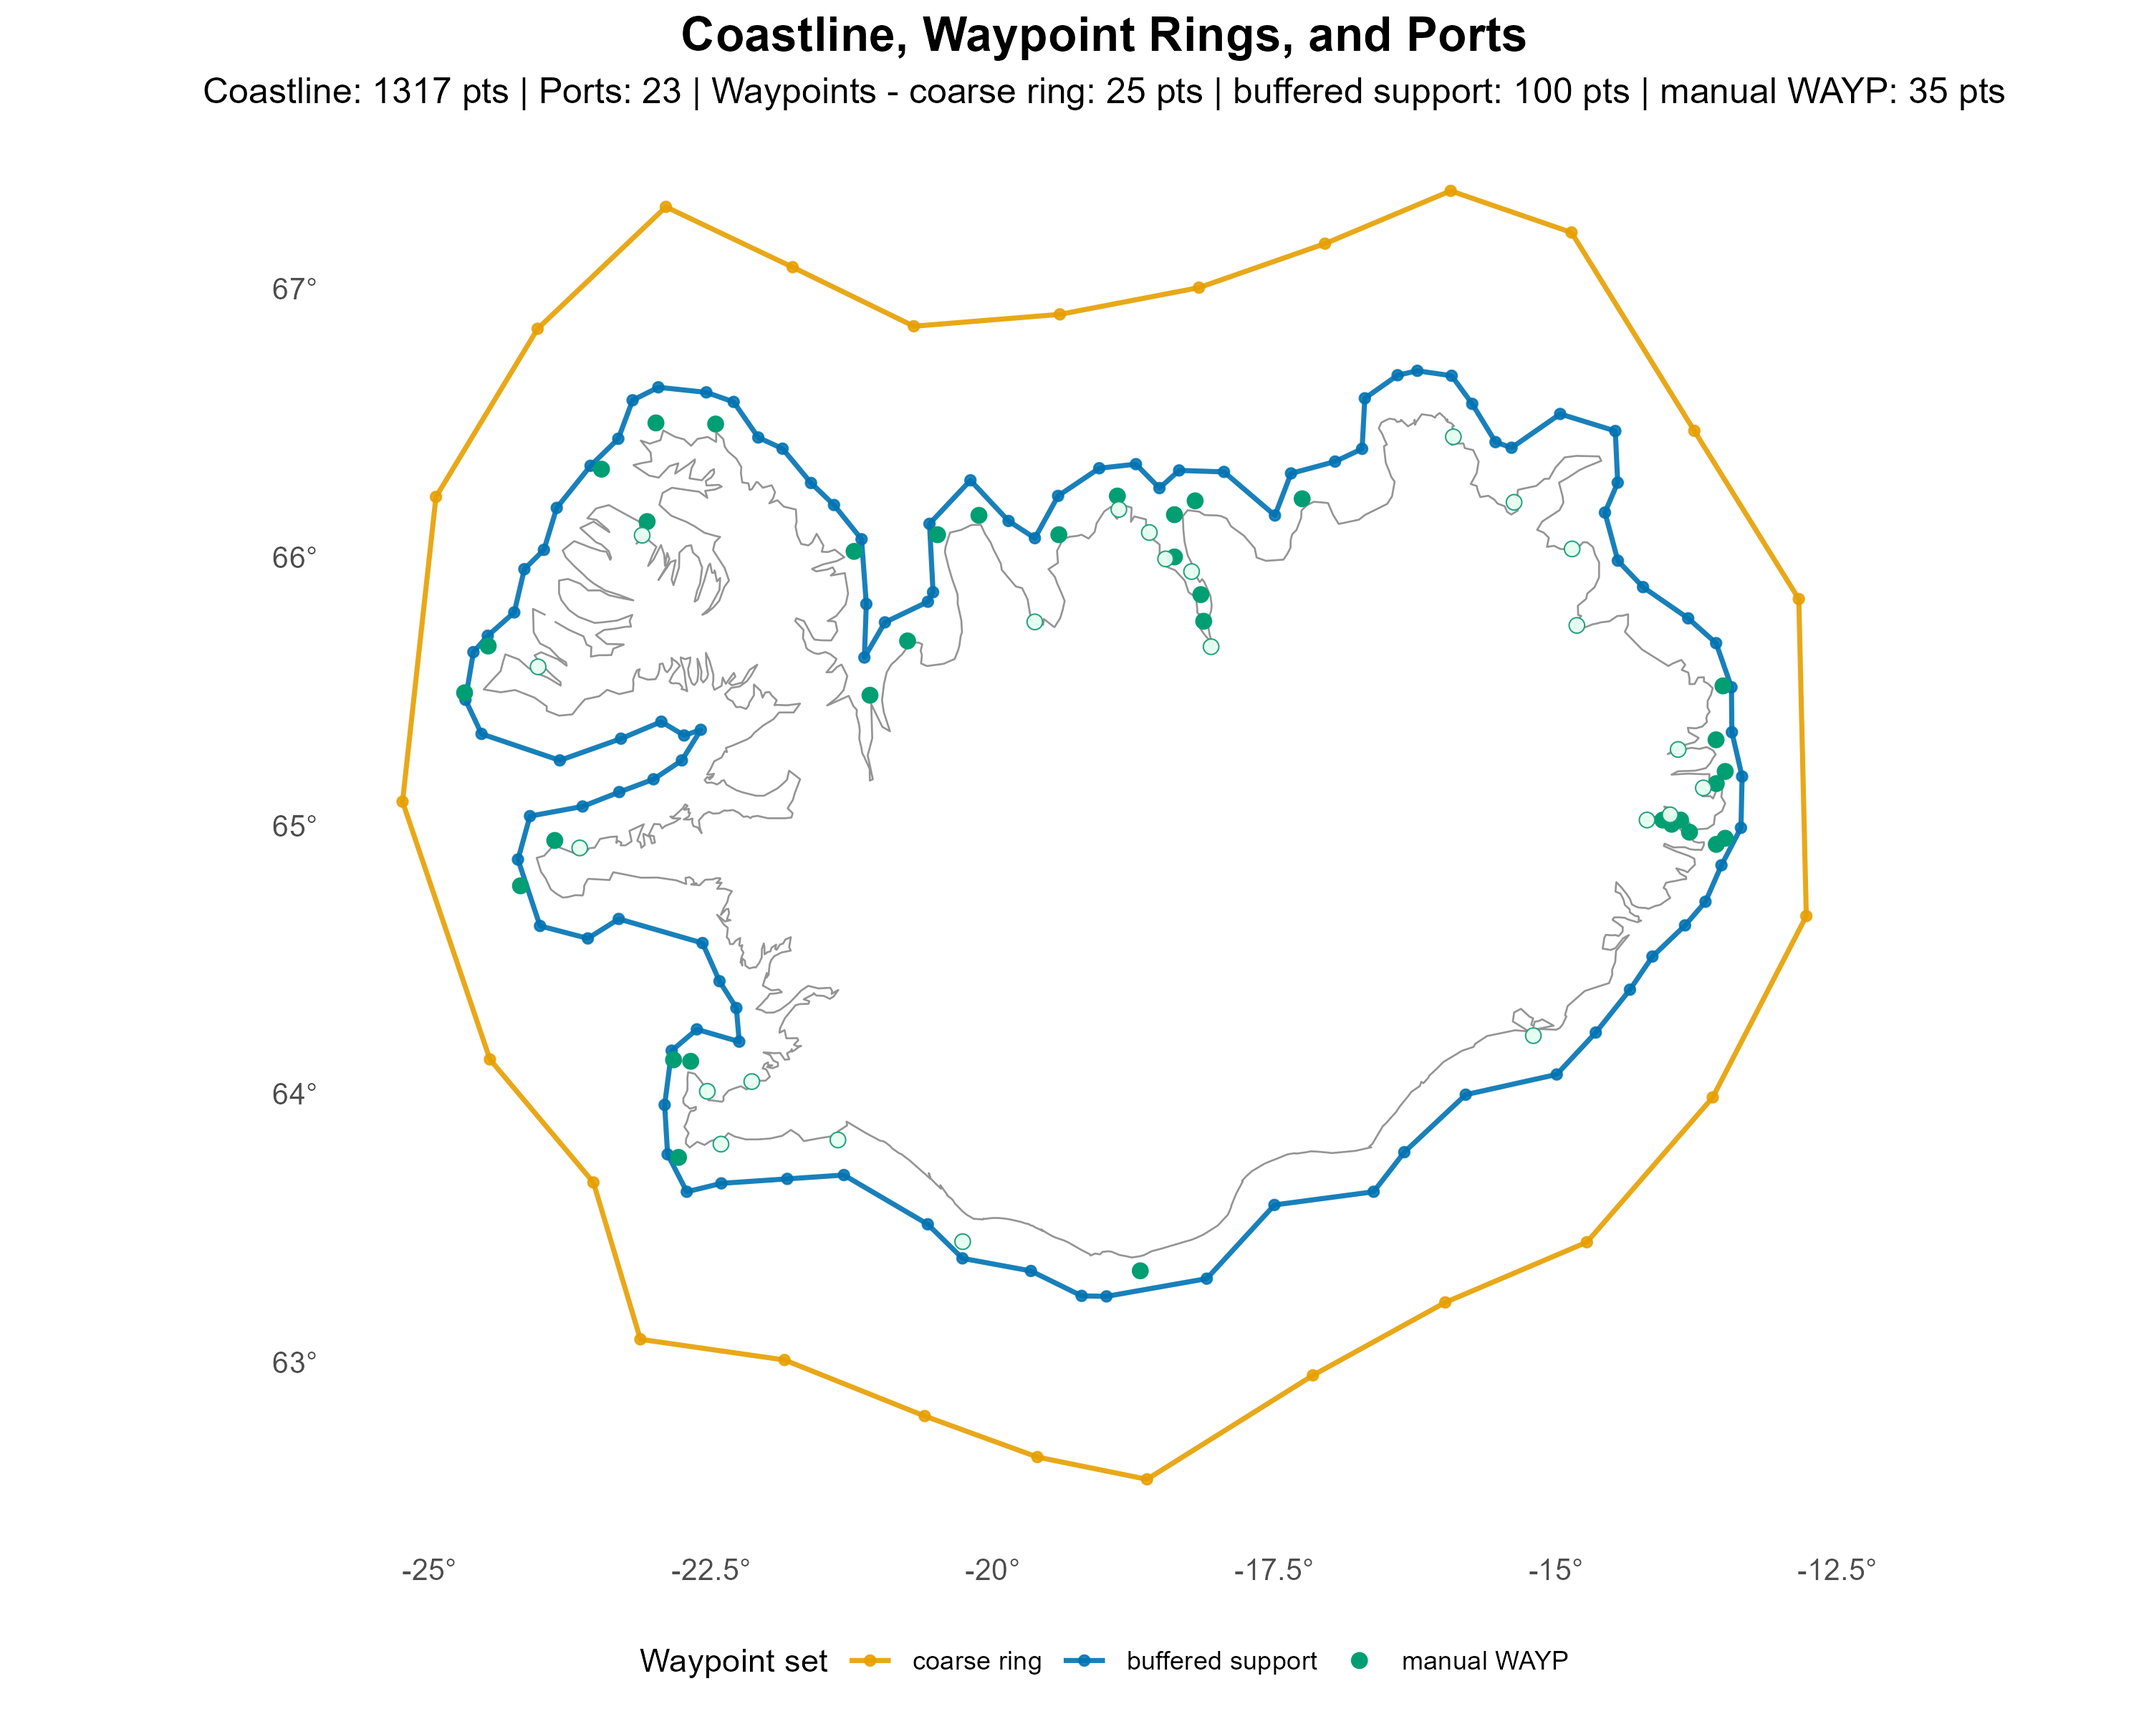
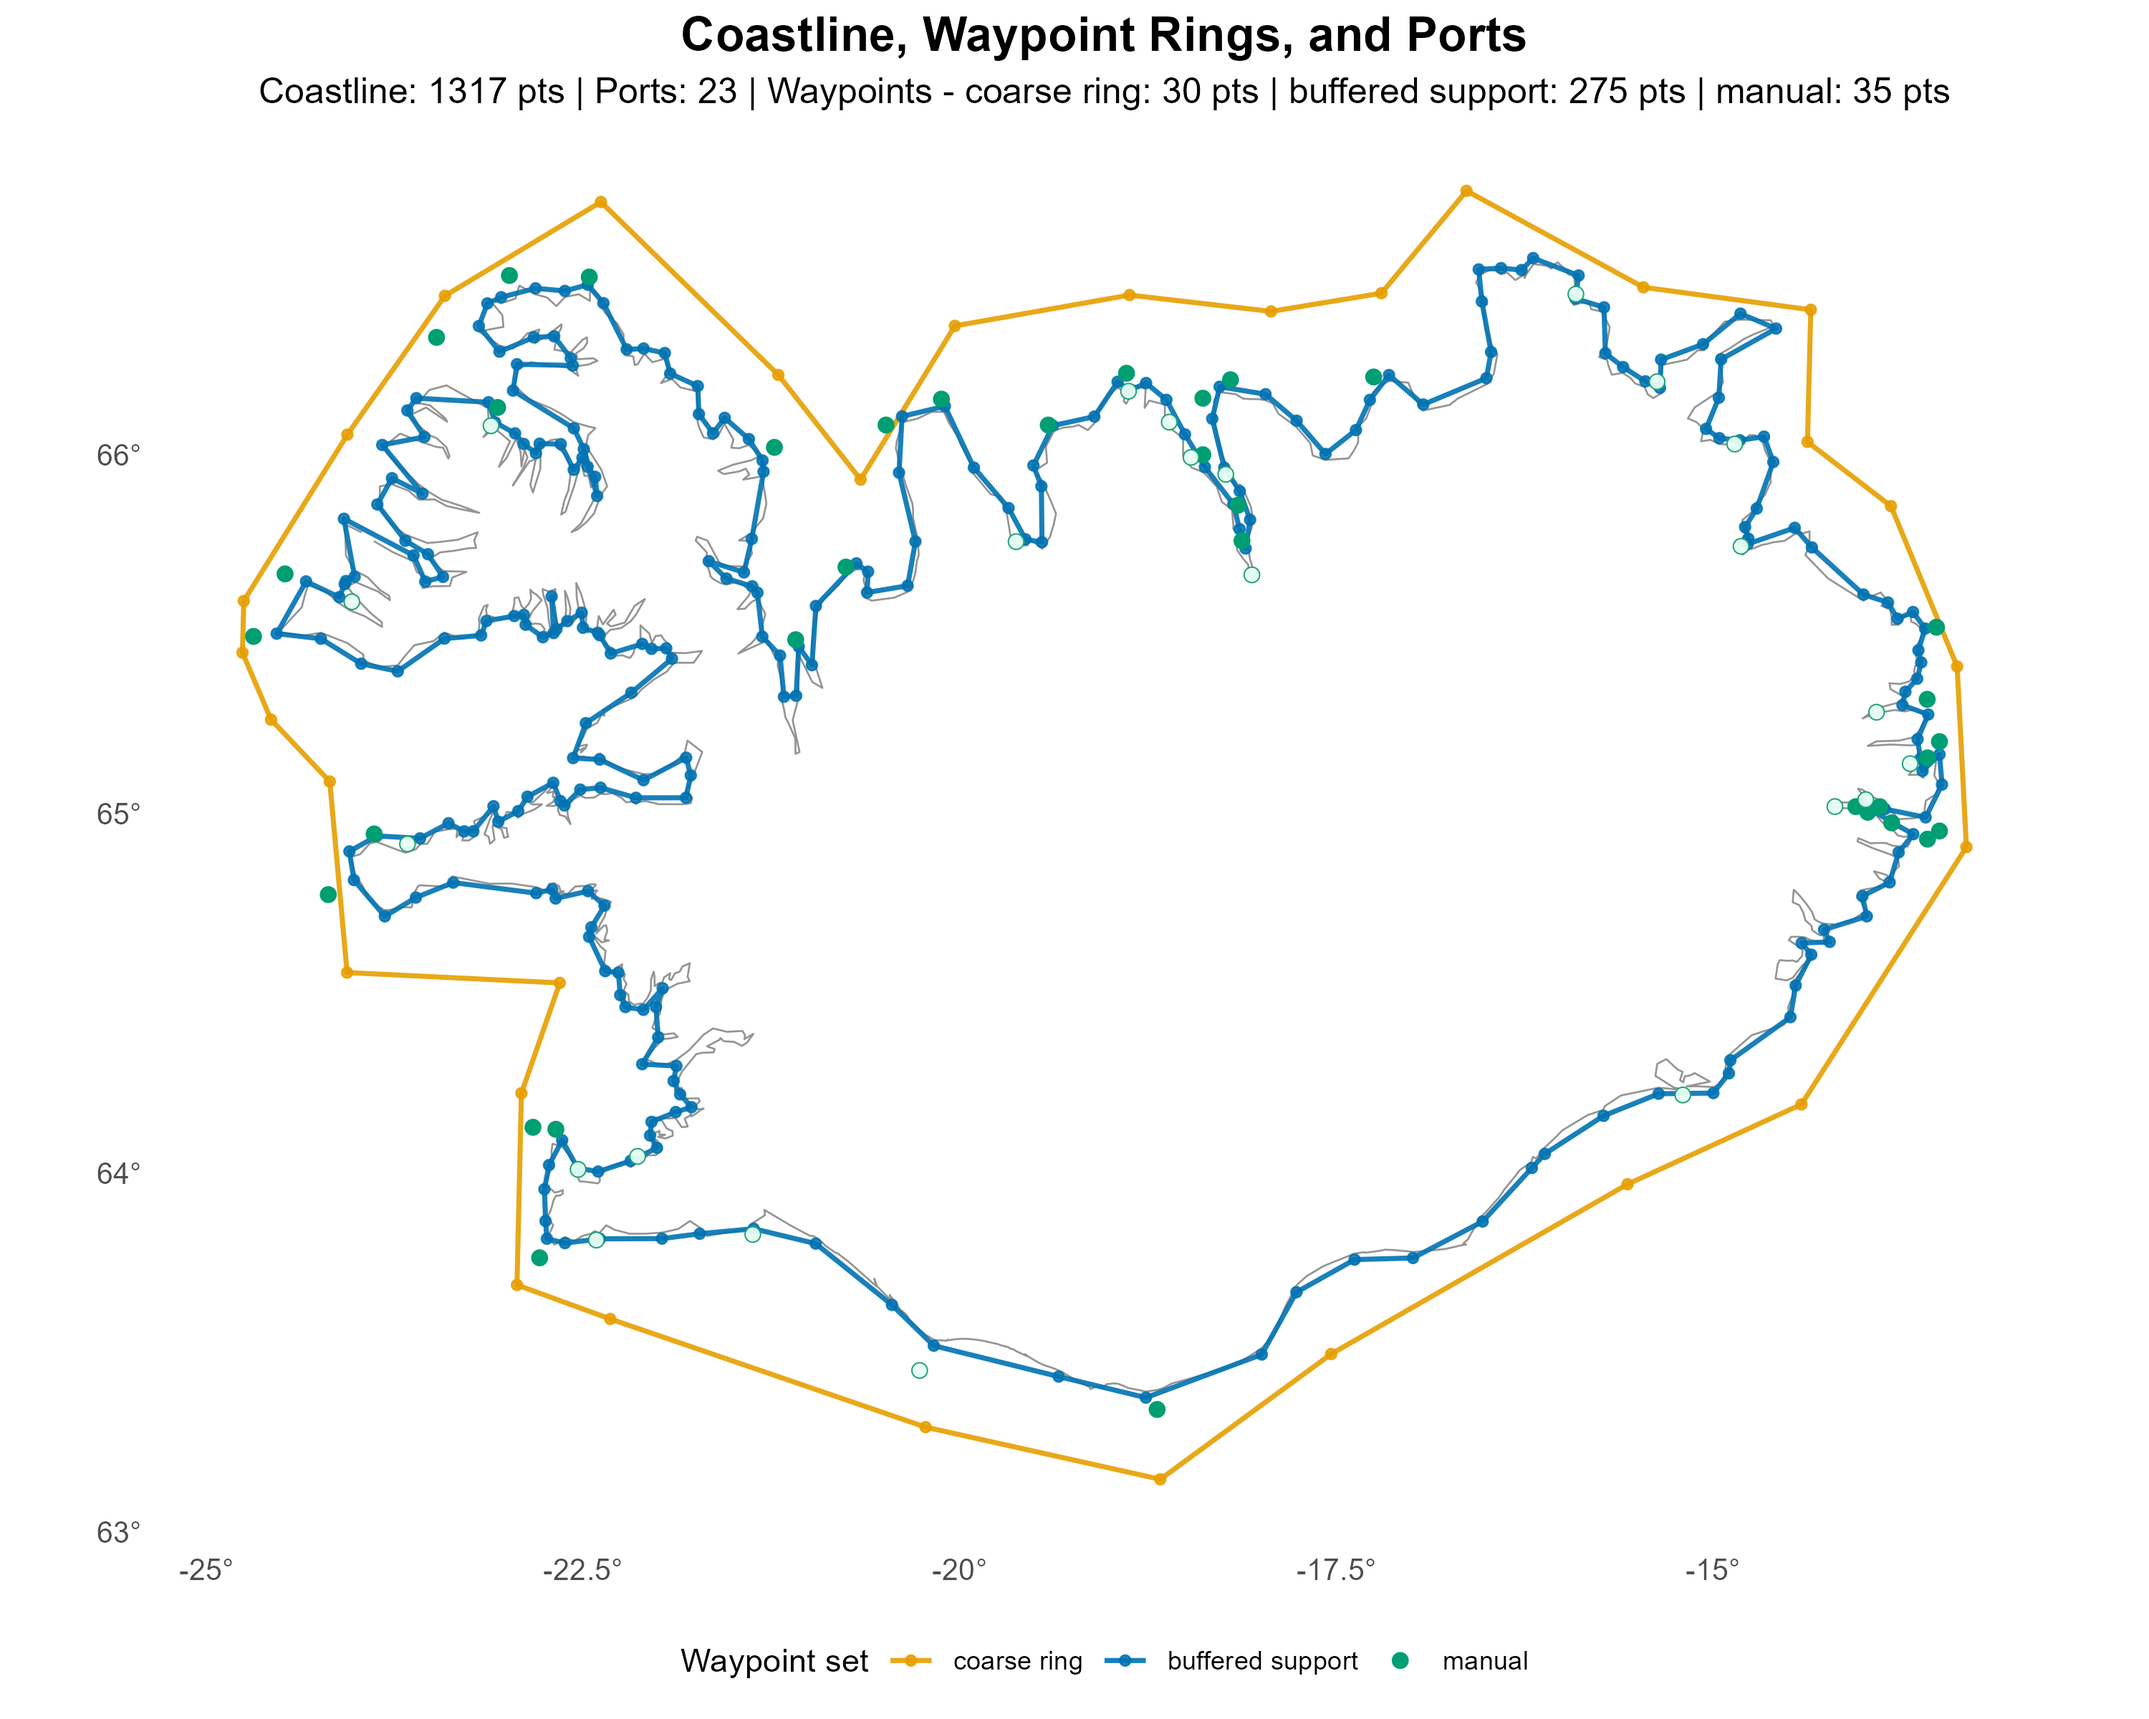
Add light cyclic smoothing to buffered coastline waypoint support.
`make -C src prepare-routing-data` now takes ~30min with 340 waypoints, used 133

diff --git a/src/tools/country_bootstrap_main.c b/src/tools/country_bootstrap_main.c
@@ -425,6 +425,45 @@ static int extract_ring_points_from_polygon(GEOSContextHandle_t ctx, const GEOSG
     return 1;
 }
 
+static GEOSGeometry *repair_polygon_geometry(GEOSContextHandle_t ctx,
+                                             GEOSGeometry *geom,
+                                             const char *label) {
+    if (!geom) return NULL;
+    if (GEOSisValid_r(ctx, geom)) return geom;
+
+    GEOSGeometry *repaired = GEOSBuffer_r(ctx, geom, 0.0, 8);
+    if (!repaired || !GEOSisValid_r(ctx, repaired)) {
+        if (repaired) GEOSGeom_destroy_r(ctx, repaired);
+        GEOSGeom_destroy_r(ctx, geom);
+        return NULL;
+    }
+
+    printf("  WARN %s invalid after geometry operation -> repaired with buffer(0)\n", label);
+    GEOSGeom_destroy_r(ctx, geom);
+    return repaired;
+}
+
+static int validate_offset_points_outside_coastline(GEOSContextHandle_t ctx,
+                                                    const GEOSGeometry *coastline_polygon,
+                                                    const GeoPointVec *ring) {
+    if (!ring || ring->n <= 0) return 0;
+    for (int i = 0; i < ring->n; i++) {
+        GEOSCoordSequence *seq = GEOSCoordSeq_create_r(ctx, 1, 2);
+        GEOSGeometry *pt = NULL;
+        if (!seq) return 0;
+        GEOSCoordSeq_setX_r(ctx, seq, 0, ring->points[i].lon);
+        GEOSCoordSeq_setY_r(ctx, seq, 0, ring->points[i].lat);
+        pt = GEOSGeom_createPoint_r(ctx, seq);
+        if (!pt) return 0;
+        if (!GEOSDisjoint_r(ctx, pt, coastline_polygon)) {
+            GEOSGeom_destroy_r(ctx, pt);
+            return 0;
+        }
+        GEOSGeom_destroy_r(ctx, pt);
+    }
+    return 1;
+}
+
 static int read_waypoint_seeds_from_dat(const char *dat_path, GeoPointVec *out) {
     DataSet dataset;
     dataset_init(&dataset);
@@ -456,24 +495,59 @@ static int read_waypoint_seeds_from_dat(const char *dat_path, GeoPointVec *out) 
  */
 static int build_offset_ring_from_coastline(GEOSContextHandle_t ctx,
                                             const GEOSGeometry *coastline_polygon,
+                                            const char *label,
                                             double offset_deg,
+                                            double simplify_tolerance_deg,
                                             int target_max_points,
                                             GeoPointVec *out) {
     /* 32 segments gives a smooth curve that hugs the coast closely */
     GEOSGeometry *buffered = GEOSBuffer_r(ctx, coastline_polygon, offset_deg, 32);
-    GeoPointVec raw = {0};
+    GEOSGeometry *simplified = NULL;
+    GeoPointVec repaired_ring = {0};
+    GeoPointVec simplified_ring = {0};
     if (!buffered) return 0;
 
-    if (!extract_ring_points_from_polygon(ctx, buffered, &raw)) {
+    buffered = repair_polygon_geometry(ctx, buffered, label);
+    if (!buffered) return 0;
+
+    if (!extract_ring_points_from_polygon(ctx, buffered, &repaired_ring)) {
         GEOSGeom_destroy_r(ctx, buffered);
         return 0;
     }
+    printf("  %s ring after repair: %d points\n", label, repaired_ring.n);
+
+    simplified = GEOSTopologyPreserveSimplify_r(ctx, buffered, simplify_tolerance_deg);
     GEOSGeom_destroy_r(ctx, buffered);
-    if (!downsample_points_stride(&raw, target_max_points, out)) {
-        point_vec_free(&raw);
+    if (!simplified) {
+        point_vec_free(&repaired_ring);
         return 0;
     }
-    point_vec_free(&raw);
+    simplified = repair_polygon_geometry(ctx, simplified, label);
+    if (!simplified) {
+        point_vec_free(&repaired_ring);
+        return 0;
+    }
+    if (!extract_ring_points_from_polygon(ctx, simplified, &simplified_ring)) {
+        GEOSGeom_destroy_r(ctx, simplified);
+        point_vec_free(&repaired_ring);
+        return 0;
+    }
+    printf("  %s ring after simplify: %d points\n", label, simplified_ring.n);
+    GEOSGeom_destroy_r(ctx, simplified);
+
+    if (!downsample_points_stride(&simplified_ring, target_max_points, out)) {
+        point_vec_free(&repaired_ring);
+        point_vec_free(&simplified_ring);
+        return 0;
+    }
+    if (!validate_offset_points_outside_coastline(ctx, coastline_polygon, out)) {
+        point_vec_free(out);
+        point_vec_free(&repaired_ring);
+        point_vec_free(&simplified_ring);
+        return 0;
+    }
+    point_vec_free(&repaired_ring);
+    point_vec_free(&simplified_ring);
     return 1;
 }
 
@@ -838,7 +912,9 @@ int country_bootstrap_run(int argc, char **argv) {
 
     /* --- Generate coarse offshore ring --- */
     if (!build_offset_ring_from_coastline(geos_ctx, original_polygon,
+                                          "Coarse coastline",
                                           COARSE_COASTLINE_OFFSET_DEG,
+                                          COARSE_COASTLINE_SIMPLIFY_TOLERANCE_DEG,
                                           COARSE_COASTLINE_MAX_POINTS,
                                           &coarse_ring)) {
         fprintf(stderr, "Failed to generate coarse coastline ring\n");
@@ -848,10 +924,13 @@ int country_bootstrap_run(int argc, char **argv) {
 
     /* --- Build buffered coastline support set --- */
     if (!build_offset_ring_from_coastline(geos_ctx, original_polygon,
+                                          "Buffered coastline",
                                           BUFFERED_COASTLINE_OFFSET_DEG,
+                                          BUFFERED_COASTLINE_SIMPLIFY_TOLERANCE_DEG,
                                           BUFFERED_COASTLINE_MAX_POINTS,
                                           &buffered_ring)) {
-        fprintf(stderr, "Warning: failed to build buffered coastline support set\n");
+        fprintf(stderr, "Failed to build buffered coastline support set\n");
+        goto cleanup;
     }
 
     /* --- Open DB --- */

diff --git a/src/tools/prepare_routing_data_main.c b/src/tools/prepare_routing_data_main.c
@@ -13,13 +13,7 @@ static void usage(const char *argv0) {
             "Options:\n"
             "  --waypoint-file <waypoints.dat>\n"
             "  --port-file <ports.dat>\n"
-            "  --boat-file <boats.dat>\n"
-            "  --preserve-all-seeds\n"
-            "  --seed-hints-only\n"
-            "  --min-points <N>\n"
-            "  --max-points <N>\n"
-            "  --target-points <N>\n"
-            "  --small-points <N>\n",
+            "  --boat-file <boats.dat>\n",
             argv0);
 }
 
@@ -44,16 +38,9 @@ int main(int argc, char **argv) {
         } else if ((strcmp(argv[i], "--waypoint-file") == 0 ||
                     strcmp(argv[i], "--dat") == 0 ||
                     strcmp(argv[i], "--port-file") == 0 ||
-                    strcmp(argv[i], "--boat-file") == 0 ||
-                    strcmp(argv[i], "--min-points") == 0 ||
-                    strcmp(argv[i], "--max-points") == 0 ||
-                    strcmp(argv[i], "--target-points") == 0 ||
-                    strcmp(argv[i], "--small-points") == 0) && i + 1 < argc) {
+                   strcmp(argv[i], "--boat-file") == 0) && i + 1 < argc) {
             country_argc += 2;
             i++;
-        } else if (strcmp(argv[i], "--preserve-all-seeds") == 0 ||
-                   strcmp(argv[i], "--seed-hints-only") == 0) {
-            country_argc += 1;
         } else {
             usage(argv[0]);
             return 1;
@@ -65,7 +52,7 @@ int main(int argc, char **argv) {
         return 1;
     }
 
-    char **country_argv = (char**)calloc((size_t)country_argc + 1, sizeof(char*));
+    char **country_argv = (char**)calloc((size_t)country_argc + 2, sizeof(char*));
     if (!country_argv) {
         fprintf(stderr, "Out of memory\n");
         return 1;
@@ -83,7 +70,9 @@ int main(int argc, char **argv) {
     country_argv[out] = NULL;
 
     printf("=== GSP Prepare Routing Data ===\n");
-    printf("Step 1/3: country bootstrap\n");
+    printf("Step 1/4: base country bootstrap\n");
+    country_argv[out++] = "--skip-waypoints";
+    country_argv[out] = NULL;
     if (country_bootstrap_run(out, country_argv) != 0) {
         free(country_argv);
         return 1;
@@ -96,8 +85,18 @@ int main(int argc, char **argv) {
             (char*)db_path,
             NULL
         };
-        printf("Step 2/3: import stations\n");
+        printf("Step 2/4: import stations\n");
         if (station_import_run(3, station_argv) != 0) {
+            free(country_argv);
+            return 1;
+        }
+    }
+
+    {
+        country_argv[out - 1] = "--waypoints-only";
+        country_argv[out] = NULL;
+        printf("Step 3/4: insert waypoint rows\n");
+        if (country_bootstrap_run(out, country_argv) != 0) {
             free(country_argv);
             return 1;
         }
@@ -110,7 +109,7 @@ int main(int argc, char **argv) {
             (char*)db_path,
             NULL
         };
-        printf("Step 3/3: build distances and prune unused waypoints\n");
+        printf("Step 4/4: build distances and report waypoint usage\n");
         if (distance_builder_run(3, distance_argv) != 0) {
             free(country_argv);
             return 1;

diff --git a/src/include/constants.h b/src/include/constants.h
@@ -65,15 +65,19 @@ enum {
  * The GEOS buffer is applied in geographic degrees, so we use the latitude approximation
  * 1 nm = 1/60 degree here.
  */
-#define COARSE_COASTLINE_OFFSET_NM 50.0
+#define COARSE_COASTLINE_OFFSET_NM 15.0
 #define COARSE_COASTLINE_OFFSET_DEG (COARSE_COASTLINE_OFFSET_NM / 60.0)
-#define COARSE_COASTLINE_MAX_POINTS 25
+#define COARSE_COASTLINE_MAX_POINTS 30
+#define COARSE_COASTLINE_SIMPLIFY_TOLERANCE_NM 2.0
+#define COARSE_COASTLINE_SIMPLIFY_TOLERANCE_DEG (COARSE_COASTLINE_SIMPLIFY_TOLERANCE_NM / 60.0)
 
 /* Buffered coastline support points:
- * 10 nautical mile is visibly offshore while still representing near-coast routing.
+ * 1 nautical mile is visibly offshore while still representing near-coast routing.
  */
-#define BUFFERED_COASTLINE_OFFSET_NM 10.0
+#define BUFFERED_COASTLINE_OFFSET_NM 1.0
 #define BUFFERED_COASTLINE_OFFSET_DEG (BUFFERED_COASTLINE_OFFSET_NM / 60.0)
-#define BUFFERED_COASTLINE_MAX_POINTS 100
+#define BUFFERED_COASTLINE_MAX_POINTS 300
+#define BUFFERED_COASTLINE_SIMPLIFY_TOLERANCE_NM 0.25
+#define BUFFERED_COASTLINE_SIMPLIFY_TOLERANCE_DEG (BUFFERED_COASTLINE_SIMPLIFY_TOLERANCE_NM / 60.0)
 
 #endif

diff --git a/src/tools/station_import.c b/src/tools/station_import.c
@@ -95,20 +95,14 @@ static int ensure_station_schema(sqlite3 *db) {
 static int ensure_country_prereqs(sqlite3 *db) {
     sqlite3_stmt *stmt = NULL;
     int coastline_count = 0;
-    int waypoint_count = 0;
 
     if (sqlite3_prepare_v2(db, "SELECT COUNT(*) FROM coastline;", -1, &stmt, NULL) == SQLITE_OK) {
         if (sqlite3_step(stmt) == SQLITE_ROW) coastline_count = sqlite3_column_int(stmt, 0);
         sqlite3_finalize(stmt);
     }
-    stmt = NULL;
-    if (sqlite3_prepare_v2(db, "SELECT COUNT(*) FROM waypoints;", -1, &stmt, NULL) == SQLITE_OK) {
-        if (sqlite3_step(stmt) == SQLITE_ROW) waypoint_count = sqlite3_column_int(stmt, 0);
-        sqlite3_finalize(stmt);
-    }
 
-    if (coastline_count == 0 || waypoint_count == 0) {
-        fprintf(stderr, "Country bootstrap must run first: missing coastline/waypoints in database\n");
+    if (coastline_count == 0) {
+        fprintf(stderr, "Country bootstrap must run first: missing coastline in database\n");
         return SQLITE_ERROR;
     }
     return SQLITE_OK;
